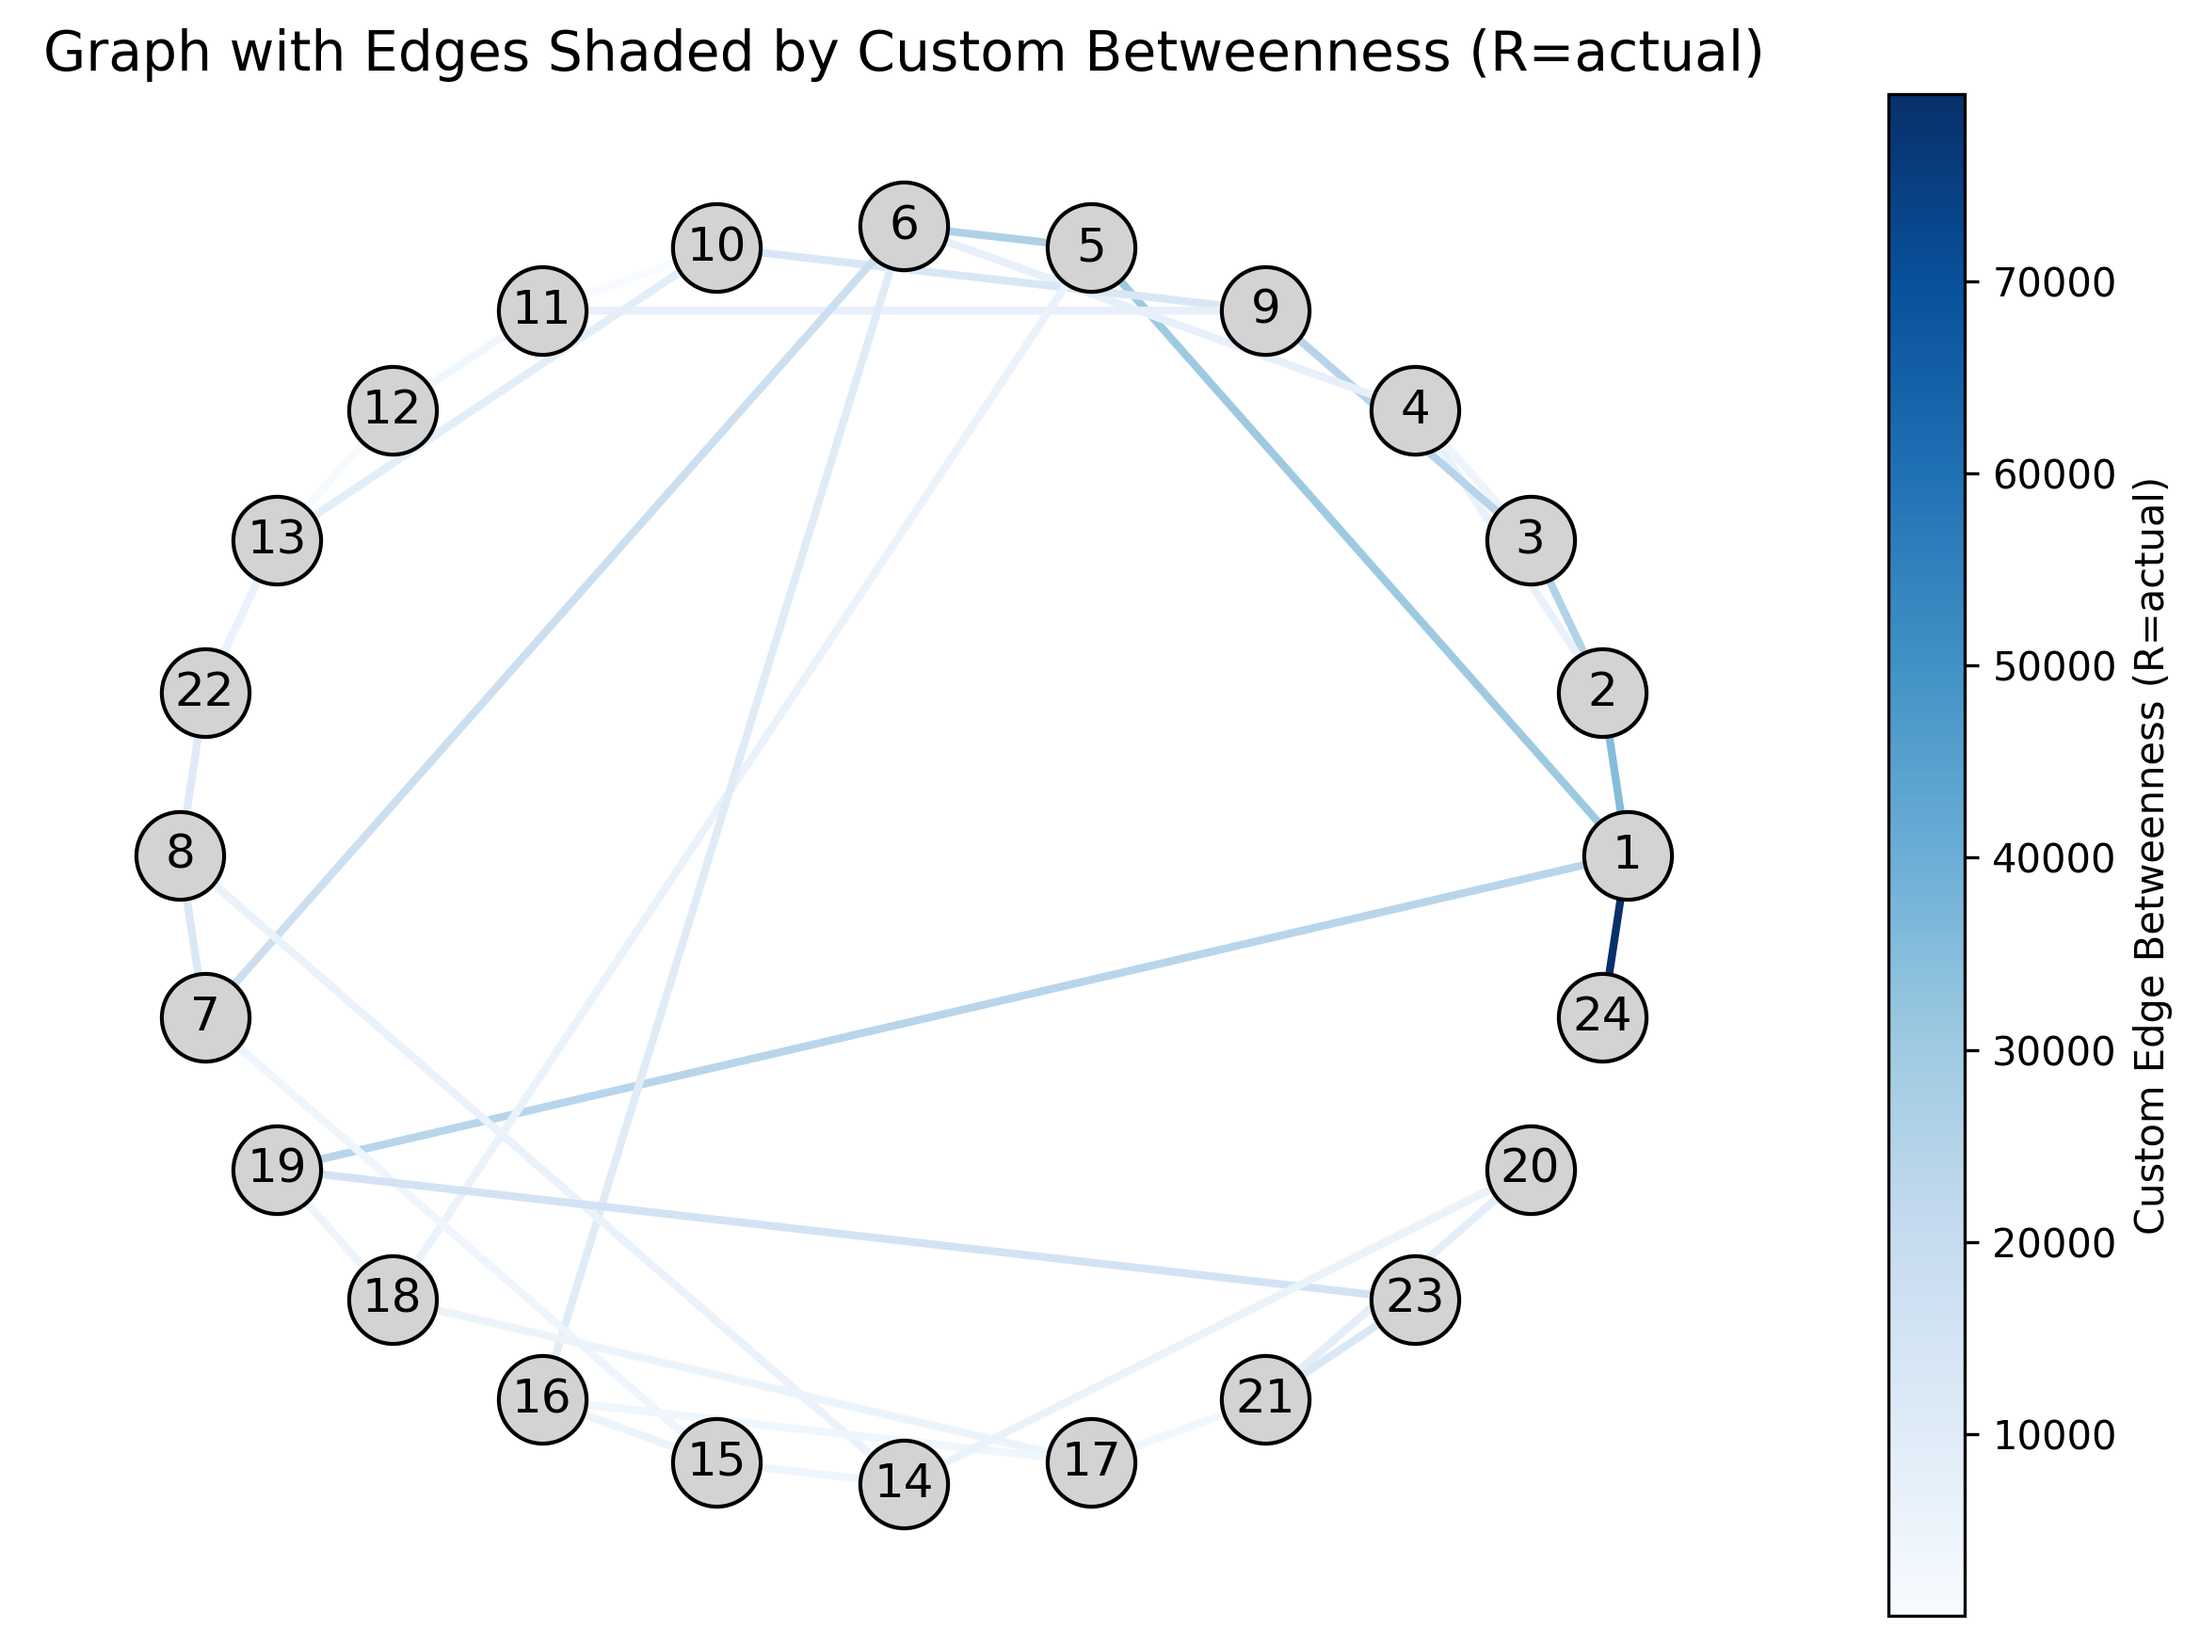
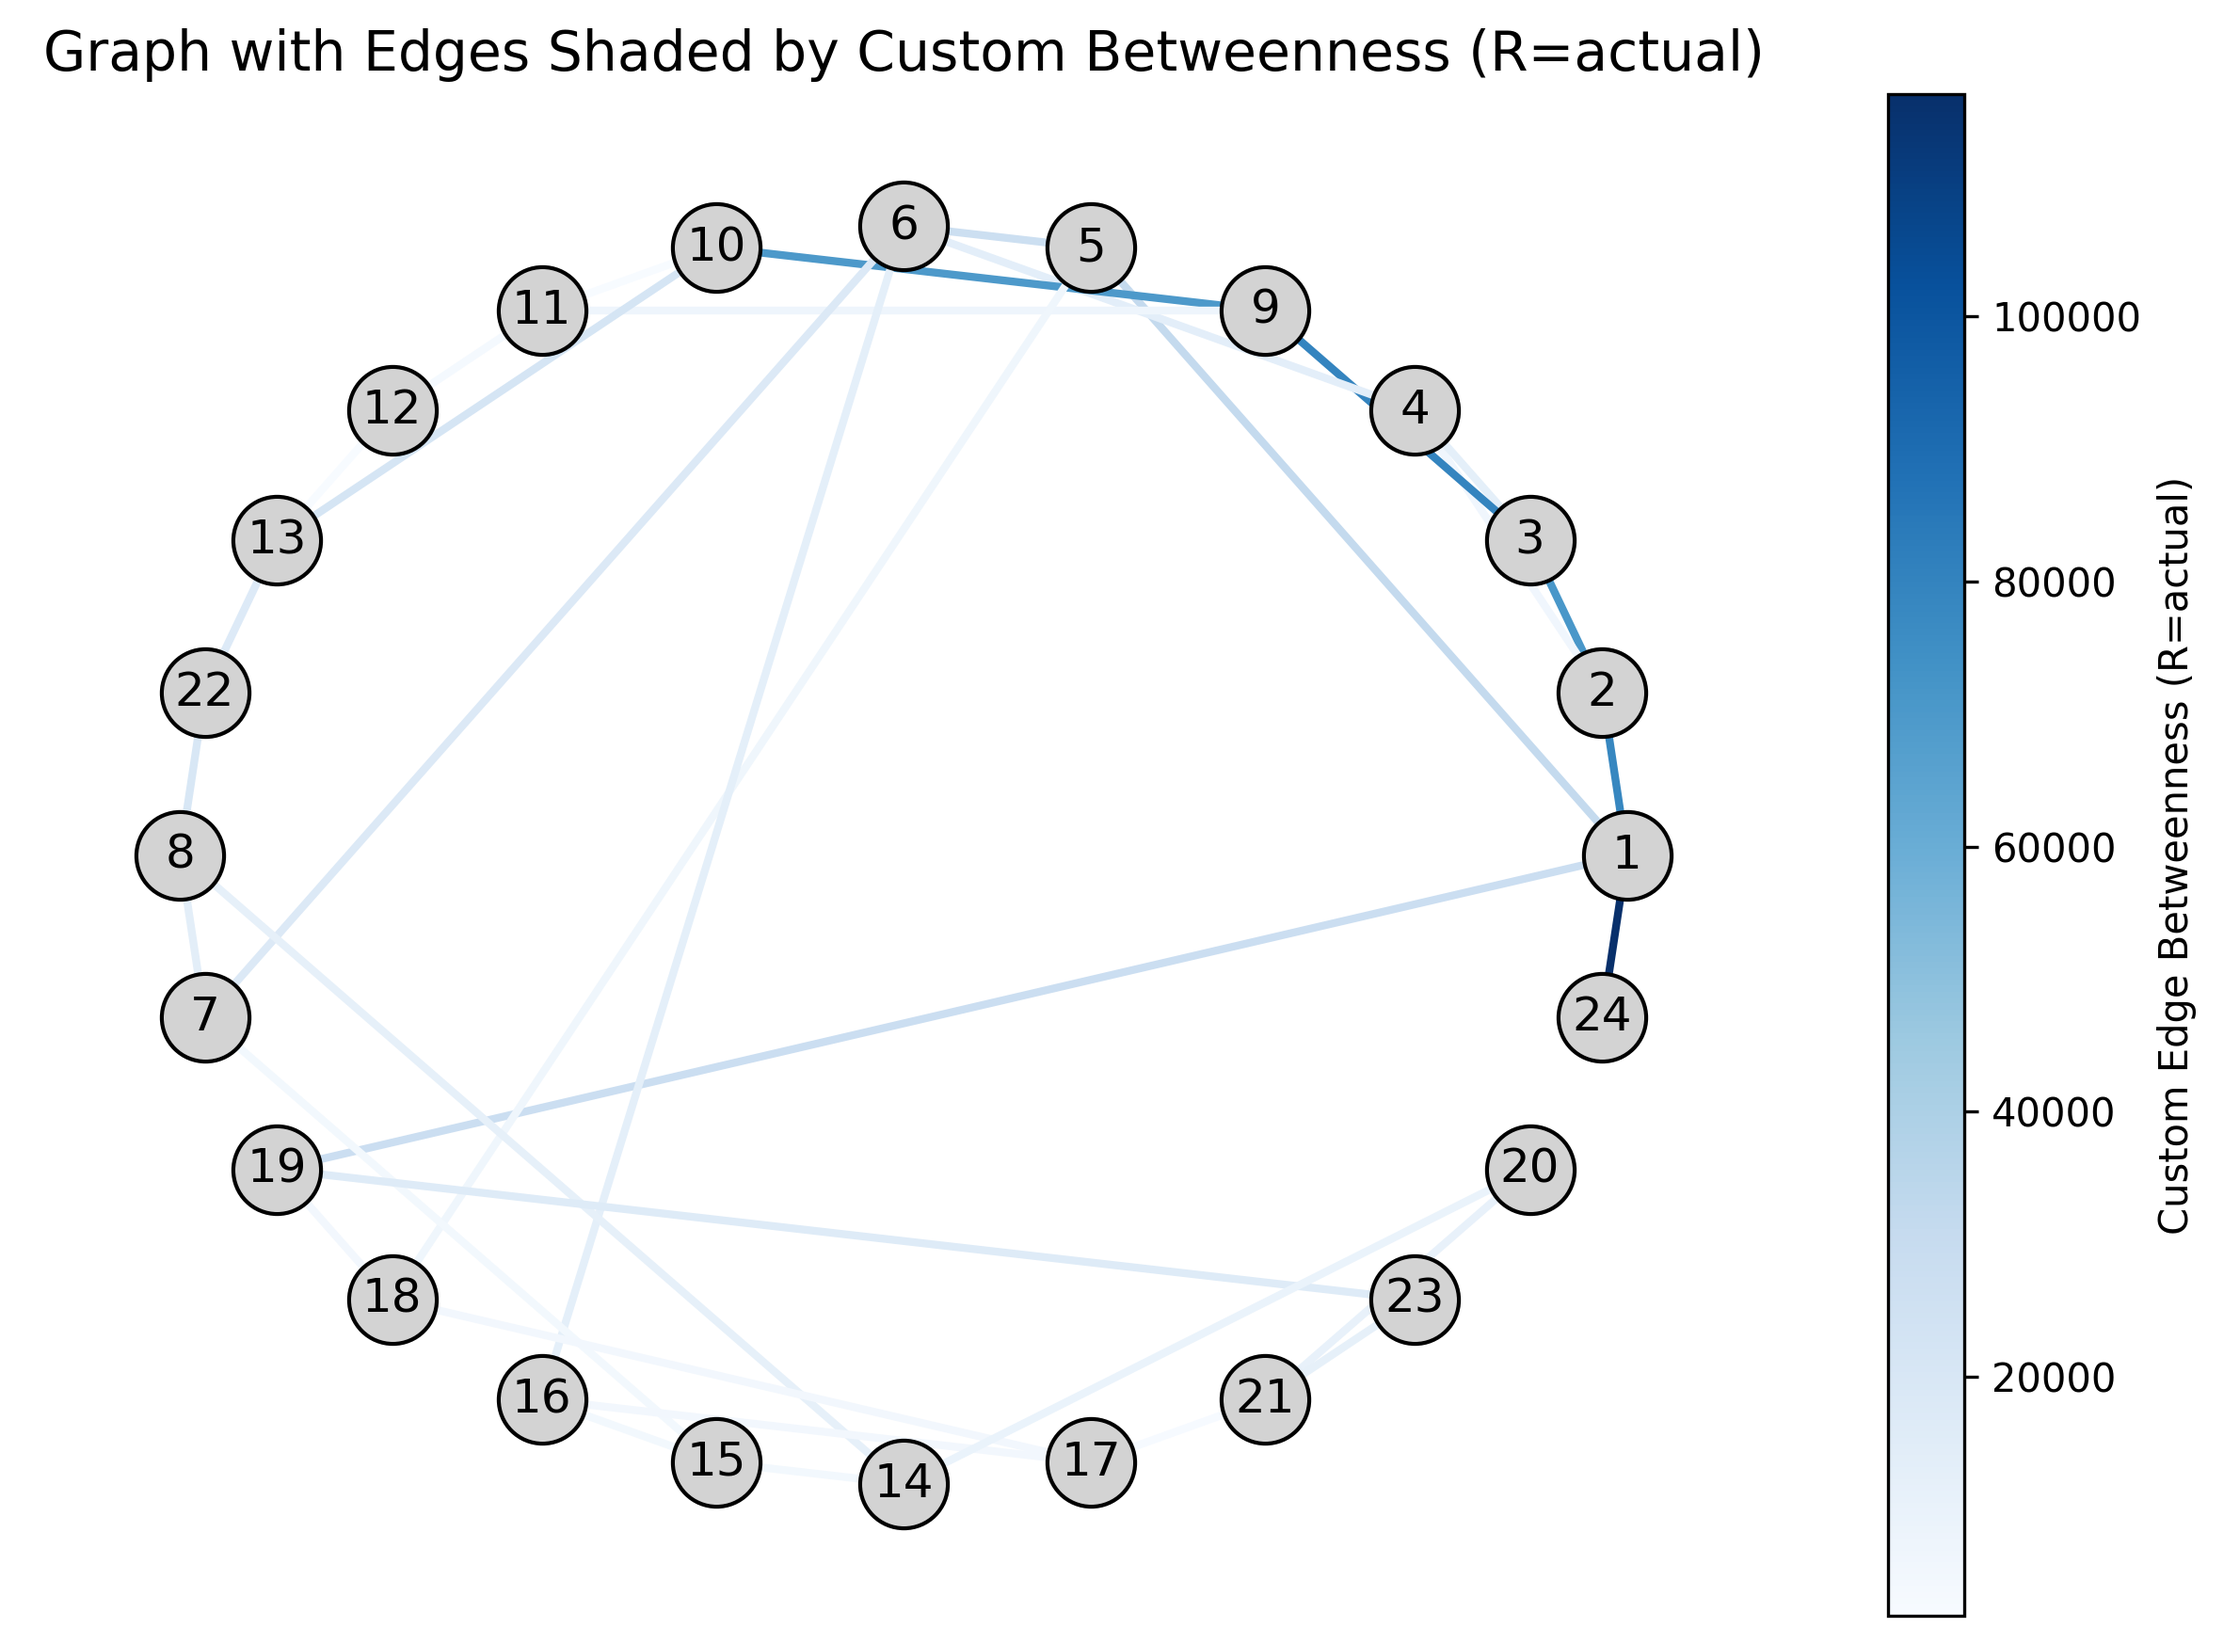
Testing fineshed. Found a minor incongruence with the paper results

diff --git a/README.md b/README.md
@@ -1,1 +1,59 @@
-# Importance_betweennes_edge
+
+# Edge Importance and Betweenness Calculation
+
+## Overview
+
+This project demonstrates how to compute edge betweenness centrality on a weighted graph, incorporating an additional node-based "importance" factor. The project:
+
+- Reads input graph data from an Excel file (`paper_graph.xlsx`).
+- Reads node importance values from another Excel file (`paper_node_importance.xlsx`).
+- Computes both the standard weighted edge betweenness (using NetworkX) and a custom variant that integrates node importance values into the calculation.
+- Compares the results and saves them into `comparison_results.xlsx`.
+- Generates a visualization of the graph, shading edges by their custom betweenness values.
+
+## Files
+
+- **paper_graph.xlsx**: Contains the graph’s edges, sources, targets, and weights.
+- **paper_node_importance.xlsx**: Contains each node’s importance value.
+- **importance_betw_edge.py**: Main script that:
+
+  - Reads the graph and importance data.
+  - Computes standard and custom (importance-based) edge betweenness.
+  - Saves the results to an Excel file.
+  - Produces a PNG visualization of the graph with edges colored according to their custom betweenness.
+- **comparison_results.xlsx**: Automatically generated file containing:
+
+  - Each edge.
+  - The built-in (standard) weighted betweenness.
+  - The custom betweenness with R=1 (used for validation).
+  - The difference between the built-in and custom (R=1) results.
+  - The custom betweenness using actual importance values.
+- **graph_custom_betweenness.png**: A visualization of the graph with edges shaded by their custom betweenness values.
+
+## Requirements
+
+- Python 3.7+
+- `pip install pandas openpyxl networkx matplotlib`
+
+## Running the Code
+
+1. Activate your virtual environment if you have one:
+
+   ```bash
+   source .venv/bin/activate
+   ```
+2. Run the main script:
+
+   ```bash
+   python importance_betw_edge.py
+   ```
+3. After execution:
+
+   - Check `comparison_results.xlsx` for the numerical results.
+   - Check `graph_custom_betweenness.png` for the visual representation.
+
+## Finding an Incongruence in the Paper
+
+The paper from which this data originates seems to contain a discrepancy. Specifically, it highlights a shortest path contributing to betweenness via `(9,11)` and `(11,10)`, but does not properly acknowledge the betweenness that should also be assigned to the edge `(9,10)`. This oversight leads to an incorrect betweenness value reported in the paper.
+
+In our calculations, the edge `(9,10)` is correctly accounted for, ensuring that all shortest paths and their corresponding betweenness contributions are represented accurately.
